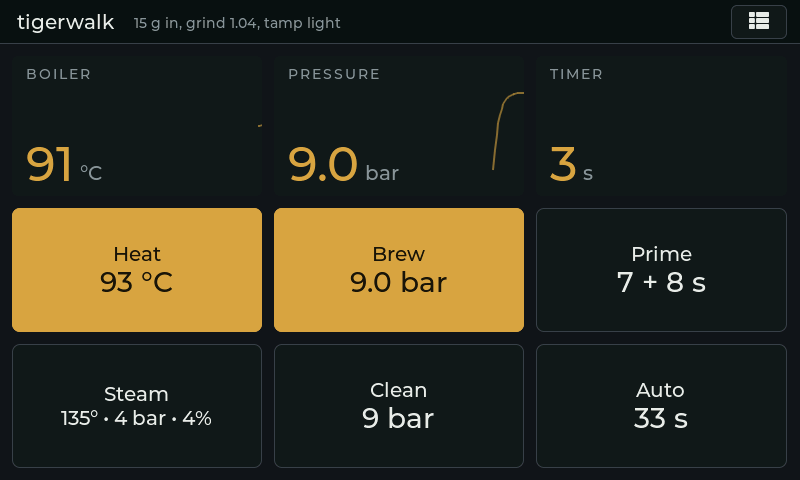
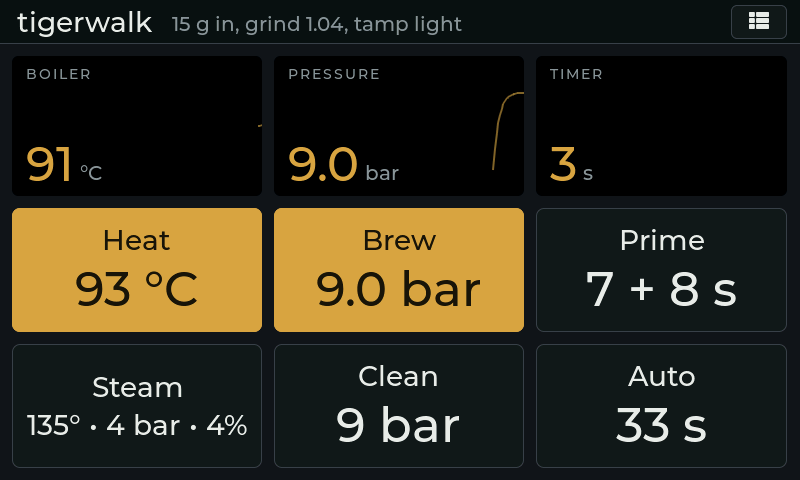
ui: larger header and button type, black readouts, menu list hangs from the button's right edge, menu scene in the simulator
Claude-Session: https://claude.ai/code/session_016XyD3ZMrdy4hijk3p6yM2m

diff --git a/gaggiano-v2/lv_buildUI.c b/gaggiano-v2/lv_buildUI.c
@@ -377,8 +377,16 @@ void enableTabs() {
 }
 
 static void menu_changed(lv_event_t* e) {
-  if (lv_event_get_code(e) == LV_EVENT_VALUE_CHANGED) {
+  lv_event_code_t code = lv_event_get_code(e);
+  if (code == LV_EVENT_VALUE_CHANGED) {
     lv_tabview_set_act(tv, lv_dropdown_get_selected(menuDd), LV_ANIM_OFF);
+  } else if (code == LV_EVENT_READY) {
+    // the list opens aligned to the button's left edge and would run off the screen:
+    // hang it from the button's right edge instead
+    lv_obj_t* list = lv_dropdown_get_list(menuDd);
+    lv_obj_set_width(list, 200);
+    lv_obj_update_layout(list);
+    lv_obj_align_to(list, menuDd, LV_ALIGN_OUT_BOTTOM_RIGHT, 0, 6);
   }
 }
 
@@ -525,6 +533,7 @@ void my_log_cb(const char* buf) {
 lv_obj_t* heat_btn_for_scene(void) { return heat_btn; }
 lv_obj_t* brew_btn_for_scene(void) { return brew_btn; }
 lv_obj_t* steam_btn_for_scene(void) { return boil_btn; }
+lv_obj_t* menu_for_scene(void) { return menuDd; }
 
 // Profile names are file names on the card; show them without the extension.
 static void set_profile_title(const char* name) {
@@ -538,7 +547,7 @@ static void set_profile_title(const char* name) {
   lv_obj_update_layout(selectedProfileLabel);
   lv_coord_t titleEnd = lv_obj_get_x2(selectedProfileLabel) + 20;
   lv_obj_set_width(main_notes_label, LV_HOR_RES - titleEnd - 80);
-  lv_obj_align_to(main_notes_label, selectedProfileLabel, LV_ALIGN_OUT_RIGHT_MID, 20, 1);
+  lv_obj_align_to(main_notes_label, selectedProfileLabel, LV_ALIGN_OUT_RIGHT_MID, 20, 2);
 }
 
 void updateUI() {
@@ -820,7 +829,7 @@ static lv_obj_t* action_btn_create(lv_obj_t* parent, const char* name, bool stea
   lv_obj_add_event_cb(btn, main_btn_clicked, LV_EVENT_ALL, NULL);
   lv_obj_set_flex_flow(btn, LV_FLEX_FLOW_COLUMN);
   lv_obj_set_flex_align(btn, LV_FLEX_ALIGN_CENTER, LV_FLEX_ALIGN_CENTER, LV_FLEX_ALIGN_CENTER);
-  lv_obj_set_style_pad_row(btn, 2, 0);
+  lv_obj_set_style_pad_row(btn, 8, 0);
 
   lv_obj_t* nameLabel = lv_label_create(btn);
   theme_apply_btn_name(nameLabel);

diff --git a/gaggiano-v2/theme.c b/gaggiano-v2/theme.c
@@ -54,7 +54,7 @@ void theme_init(void) {
 
   lv_style_init(&st_title);
   lv_style_set_text_color(&st_title, theme_text());
-  lv_style_set_text_font(&st_title, theme_font_name);
+  lv_style_set_text_font(&st_title, theme_font_value);
 
   lv_style_init(&st_btn);
   lv_style_set_bg_color(&st_btn, theme_surface());
@@ -78,7 +78,7 @@ void theme_init(void) {
 
   lv_style_init(&st_header_notes);
   lv_style_set_text_color(&st_header_notes, theme_muted());
-  lv_style_set_text_font(&st_header_notes, theme_font_small);
+  lv_style_set_text_font(&st_header_notes, theme_font_name);
 
   lv_style_init(&st_menu);
   lv_style_set_bg_color(&st_menu, theme_surface());
@@ -92,13 +92,13 @@ void theme_init(void) {
   lv_style_set_pad_all(&st_menu, 4);
 
   lv_style_init(&st_btn_name);
-  lv_style_set_text_font(&st_btn_name, theme_font_name);
+  lv_style_set_text_font(&st_btn_name, theme_font_value);
 
   lv_style_init(&st_btn_value);
-  lv_style_set_text_font(&st_btn_value, theme_font_value);
+  lv_style_set_text_font(&st_btn_value, theme_font_big);
 
   lv_style_init(&st_tile);
-  lv_style_set_bg_color(&st_tile, theme_surface());
+  lv_style_set_bg_color(&st_tile, lv_color_black());  // readouts on pure black
   lv_style_set_bg_opa(&st_tile, LV_OPA_COVER);
   lv_style_set_border_width(&st_tile, 0);
   lv_style_set_radius(&st_tile, 6);

diff --git a/sim/main.cpp b/sim/main.cpp
@@ -19,6 +19,7 @@
 extern "C" lv_obj_t *heat_btn_for_scene(void);   // simulator hooks exported by lv_buildUI.c
 extern "C" lv_obj_t *brew_btn_for_scene(void);
 extern "C" lv_obj_t *steam_btn_for_scene(void);
+extern "C" lv_obj_t *menu_for_scene(void);
 #include "sequencer.h"
 #include <gaggia_protocol.h>
 
@@ -148,7 +149,7 @@ static int duplicateProfile() { profiles.push_back(current + "-c"); return 1; }
 
 int main(int argc, char **argv) {
   const char *shot = NULL;
-  const char *scene = "idle";  // idle | heating | brewing | steaming
+  const char *scene = "idle";  // idle | heating | brewing | steaming | menu
   uint32_t shotAfter = 1000;
   for (int i = 1; i < argc; i++) {
     if (strcmp(argv[i], "--shot") == 0 && i + 1 < argc) shot = argv[++i];
@@ -199,7 +200,8 @@ int main(int argc, char **argv) {
     temp = 128.0f;
     lv_obj_add_state(steam_btn_for_scene(), LV_STATE_CHECKED);
   }
-  if (strcmp(scene, "idle") != 0) state.hasCommandChanged = true;
+  if (strcmp(scene, "menu") == 0) lv_dropdown_open(menu_for_scene());
+  if (strcmp(scene, "idle") != 0 && strcmp(scene, "menu") != 0) state.hasCommandChanged = true;
 
   uint32_t lastUi = 0, lastTick = nowMs(), start = nowMs();
   bool running = true;
